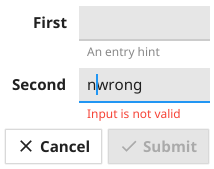
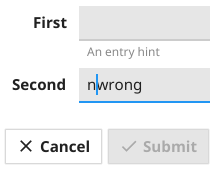
fix form hint for widget.Entry's

Changed region(s): [[0.3925, 0.6213, 0.8411, 0.7101]]

diff --git a/widget/form.go b/widget/form.go
@@ -190,21 +190,26 @@ func (f *Form) checkValidation(err error) {
 }
 
 func (f *Form) setUpValidation(widget fyne.CanvasObject, i int) {
+	updateValidation := func(err error) {
+		if err == errFormItemInitialState {
+			return
+		}
+		f.Items[i].validationError = err
+		f.Items[i].invalid = err != nil
+		f.checkValidation(err)
+		f.updateHelperText(f.Items[i])
+	}
 	if w, ok := widget.(fyne.Validatable); ok {
 		f.Items[i].invalid = w.Validate() != nil
-		if e, ok := w.(*Entry); ok && e.Validator != nil && f.Items[i].invalid {
-			// set initial state error to guarantee next error (if triggers) is always different
-			e.SetValidationError(errFormItemInitialState)
-		}
-		w.SetOnValidationChanged(func(err error) {
-			if err == errFormItemInitialState {
-				return
+		if e, ok := w.(*Entry); ok {
+			e.onFocusGained = func() { updateValidation(e.validationError) }
+			e.onFocusLost = func() { updateValidation(e.validationError) }
+			if e.Validator != nil && f.Items[i].invalid {
+				// set initial state error to guarantee next error (if triggers) is always different
+				e.SetValidationError(errFormItemInitialState)
 			}
-			f.Items[i].validationError = err
-			f.Items[i].invalid = err != nil
-			f.checkValidation(err)
-			f.updateHelperText(f.Items[i])
-		})
+		}
+		w.SetOnValidationChanged(updateValidation)
 	}
 }
 
@@ -212,7 +217,11 @@ func (f *Form) updateHelperText(item *FormItem) {
 	if item.helperOutput == nil {
 		return // testing probably, either way not rendered yet
 	}
-	if item.validationError == nil {
+	showHintIfError := false
+	if e, ok := item.Widget.(*Entry); ok && (!e.dirty || e.focused) {
+		showHintIfError = true
+	}
+	if item.validationError == nil || showHintIfError {
 		item.helperOutput.Text = item.HintText
 		item.helperOutput.Color = theme.PlaceHolderColor()
 	} else {

diff --git a/widget/entry.go b/widget/entry.go
@@ -66,6 +66,11 @@ type Entry struct {
 	content     *entryContent
 	scroll      *widget.Scroll
 
+	// useful for Form validation (as the error text should only be shown when
+	// the entry is unfocused)
+	onFocusGained func()
+	onFocusLost   func()
+
 	// selectRow and selectColumn represent the selection start location
 	// The selection will span from selectRow/Column to CursorRow/Column -- note that the cursor
 	// position may occur before or after the select start position in the text.
@@ -307,6 +312,9 @@ func (e *Entry) FocusGained() {
 		e.dirty = true
 		e.focused = true
 	})
+	if e.onFocusGained != nil {
+		e.onFocusGained()
+	}
 }
 
 // FocusLost is called when the Entry has had focus removed.
@@ -317,6 +325,9 @@ func (e *Entry) FocusLost() {
 		e.focused = false
 		e.selectKeyDown = false
 	})
+	if e.onFocusLost != nil {
+		e.onFocusLost()
+	}
 }
 
 // Hide hides the entry.

diff --git a/widget/form_test.go b/widget/form_test.go
@@ -213,9 +213,6 @@ func TestForm_EntryValidation_FirstTypeValid(t *testing.T) {
 	w := test.NewWindow(form)
 	defer w.Close()
 
-	assert.Equal(t, errFormItemInitialState, entry1.validationError)
-	assert.Equal(t, errFormItemInitialState, entry2.validationError)
-
 	test.AssertImageMatches(t, "form/validation_entry_first_type_initial.png", w.Canvas().Capture())
 
 	test.Type(entry1, "H")
